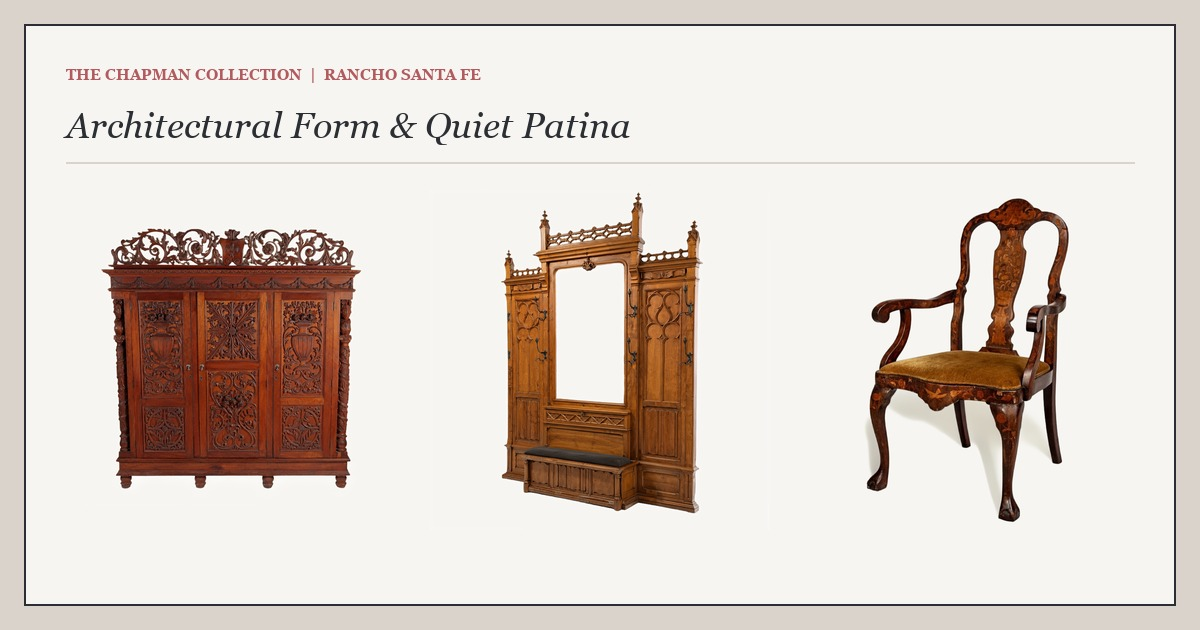
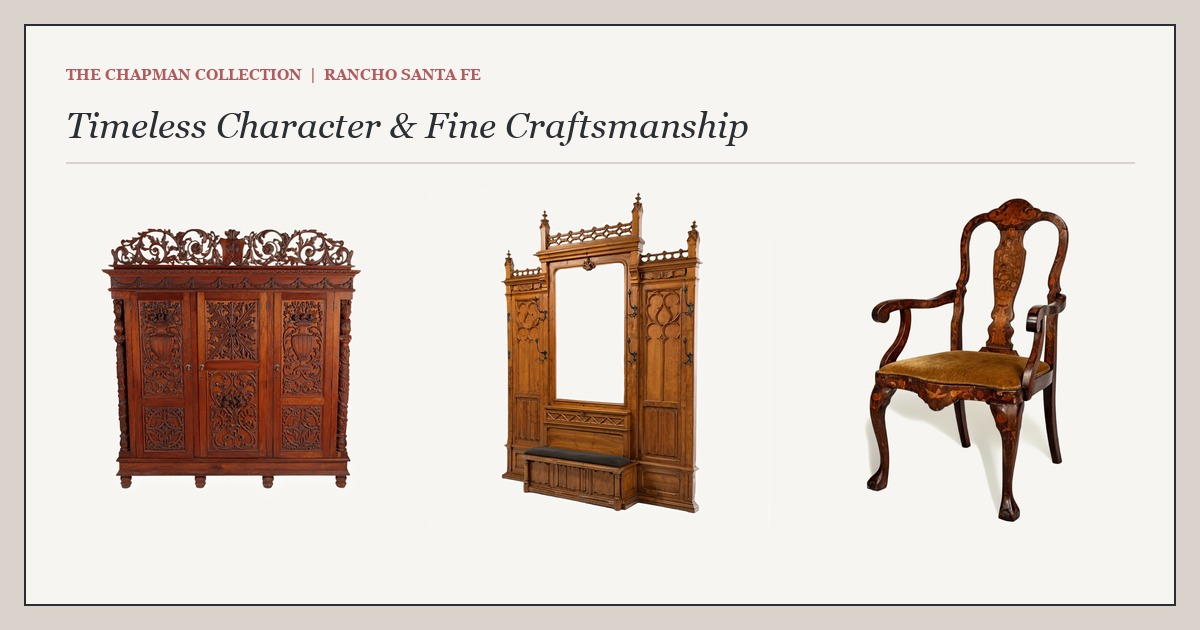
Tighten Scandinavian circular header, invert ghost-to-fill hover buttons, remove redundant upper contact line

Changed region(s): [[0.0617, 0.181, 0.6167, 0.2413]]

diff --git a/drafts-for-pmc-approval/2026-11-04-scandinavian-gustavian-gallery/2026-11-04-Omnisend_Scandinavian_Gustavian_Gallery_Full_Import.html b/drafts-for-pmc-approval/2026-11-04-scandinavian-gustavian-gallery/2026-11-04-Omnisend_Scandinavian_Gustavian_Gallery_Full_Import.html
@@ -6,12 +6,12 @@
 <meta http-equiv="X-UA-Compatible" content="IE=edge">
 <meta name="robots" content="noindex, nofollow">
 <meta property="og:type" content="website">
-<meta property="og:title" content="Architectural Form and Quiet Patina | The Chapman Collection">
-<meta property="og:description" content="Statement European antiques, carved Spanish and English woodwork, 1700s Dutch marquetry, French Empire marble pedestals and luminous Silk Qum carpets on our Scandinavian gallery canvas.">
+<meta property="og:title" content="Timeless Character &amp; Fine Craftsmanship | The Chapman Collection">
+<meta property="og:description" content="A curated selection of statement European antiques, carved Spanish and English woodwork, 1700s Dutch marquetry, French Empire marble pedestals and luminous Silk Qum carpets from our Rancho Santa Fe showroom.">
 <meta property="og:image" content="https://renderwithoutcode.com/drafts-for-pmc-approval/2026-11-04-scandinavian-gustavian-gallery/cuts/tcc-nov04-og-banner.jpg">
 <meta property="og:image:width" content="1200">
 <meta property="og:image:height" content="630">
-<title>Architectural Form and Quiet Patina - The Chapman Collection</title>
+<title>Timeless Character &amp; Fine Craftsmanship - The Chapman Collection</title>
 <style type="text/css">
   body, table, td, p, a, h1, h2, h3, h4 {
     -webkit-text-size-adjust: 100%;
@@ -29,6 +29,18 @@
     outline: none;
     text-decoration: none;
     max-width: 100%;
+  }
+  .tcc-btn {
+    background-color: #F7F5F2 !important;
+    color: #2B2F33 !important;
+    transition: background-color 0.2s ease, color 0.2s ease;
+  }
+  .tcc-btn:hover {
+    background-color: #2B2F33 !important;
+    color: #F7F5F2 !important;
+  }
+  .tcc-btn-td:hover {
+    background-color: #2B2F33 !important;
   }
   @media only screen and (max-width: 520px) {
     .tcc-outer-frame {
@@ -54,7 +66,7 @@
 <body style="margin:0;padding:0;background-color:#D9D3CC;">
 <!-- Hidden Preheader -->
 <div style="display:none;font-size:1px;color:#D9D3CC;line-height:1px;max-height:0px;max-width:0px;opacity:0;overflow:hidden;">
-  Monumental English and Spanish woodwork, 1700s Dutch floral marquetry, French Empire green marble pedestals and luminous Silk Qum carpets.
+  A curated selection from our Rancho Santa Fe showroom: monumental English and Spanish woodwork, 1700s Dutch floral marquetry, French Empire marble pedestals and luminous Silk Qum carpets.
 </div>
 
 <!-- Outer Surround in #D9D3CC (Gustavian Putty) -->
@@ -108,27 +120,21 @@
         </tr>
 
         <!-- ================================================================== -->
-        <!-- 3. ELOQUENCE EDITORIAL TITLE CARD & OPENING NOTE                   -->
+        <!-- 3. ELOQUENCE EDITORIAL TITLE CARD (TIGHTENED - NO PARAGRAPH)       -->
         <!-- ================================================================== -->
         <tr>
-          <td class="tcc-pad" align="center" style="padding:18px 8% 24px 8%;background-color:#F7F5F2;text-align:center;">
+          <td class="tcc-pad" align="center" style="padding:14px 8% 18px 8%;background-color:#F7F5F2;text-align:center;">
             <p style="margin:0 0 8px 0;font-family:'Garamond','Georgia',serif;font-size:11px;letter-spacing:2.4px;text-transform:uppercase;color:#B35A5E;font-weight:bold;text-align:center;">
-              The Studio Silhouette Edition
+              Timeless Character &amp; Fine Craftsmanship
             </p>
-            <h2 style="margin:0 0 14px 0;font-family:'Garamond','Georgia',serif;font-size:30px;font-weight:normal;font-style:italic;color:#2B2F33;line-height:1.25;text-align:center;">
-              Architectural form and quiet patina
+            <h2 style="margin:0 0 14px 0;font-family:'Garamond','Georgia',serif;font-size:26px;font-weight:normal;font-style:italic;color:#2B2F33;line-height:1.28;text-align:center;">
+              A curated selection from our Rancho Santa Fe showroom
             </h2>
-            <table role="presentation" cellspacing="0" cellpadding="0" border="0" width="48" align="center" style="width:48px;margin:0 auto 18px auto;">
+            <table role="presentation" cellspacing="0" cellpadding="0" border="0" width="48" align="center" style="width:48px;margin:0 auto;">
               <tr>
                 <td height="2" style="height:2px;line-height:2px;font-size:2px;background-color:#B35A5E;">&nbsp;</td>
               </tr>
             </table>
-            <p style="margin:0 0 14px 0;font-family:'Garamond','Georgia',serif;font-size:17px;line-height:1.7;color:#2B2F33;text-align:center;">
-              When a remarkable antique is placed against a quiet, neutral gallery wall, every hand carved relief, warm walnut grain and gilt bronze mount comes into clear focus.
-            </p>
-            <p style="margin:0;font-family:'Garamond','Georgia',serif;font-size:17px;line-height:1.7;color:#2B2F33;text-align:center;">
-              This week we have photographed a curated selection of statement European furniture, 18th century Dutch marquetry, French Empire pedestals, luminous Persian silk carpets, fine porcelain and modern art against our new Scandinavian alabaster backdrop so you can admire their silhouette and craftsmanship in detail.
-            </p>
           </td>
         </tr>
 
@@ -158,8 +164,8 @@
                   </p>
                   <table role="presentation" cellspacing="0" cellpadding="0" border="0" align="center" style="margin:0 auto;">
                     <tr>
-                      <td bgcolor="#2B2F33" align="center" style="background-color:#2B2F33;border:1px solid #2B2F33;text-align:center;">
-                        <a href="https://thechapmancollection.com/?s=Gothic+Hallstand&amp;post_type=product" target="_blank" style="background-color:#2B2F33;color:#F7F5F2;text-decoration:none;font-family:'Garamond','Georgia',serif;font-size:12px;letter-spacing:1.8px;text-transform:uppercase;padding:10px 26px;display:inline-block;">Select this Piece</a>
+                      <td class="tcc-btn-td" bgcolor="#F7F5F2" align="center" style="background-color:#F7F5F2;border:1px solid #2B2F33;text-align:center;">
+                        <a class="tcc-btn" href="https://thechapmancollection.com/?s=Gothic+Hallstand&amp;post_type=product" target="_blank" style="background-color:#F7F5F2;color:#2B2F33;text-decoration:none;font-family:'Garamond','Georgia',serif;font-size:12px;letter-spacing:1.8px;text-transform:uppercase;padding:10px 26px;display:inline-block;">Select this Piece</a>
                       </td>
                     </tr>
                   </table>
@@ -200,8 +206,8 @@
                   </p>
                   <table role="presentation" cellspacing="0" cellpadding="0" border="0" align="center" style="margin:0 auto;">
                     <tr>
-                      <td bgcolor="#2B2F33" align="center" style="background-color:#2B2F33;border:1px solid #2B2F33;text-align:center;">
-                        <a href="https://thechapmancollection.com/?s=Spanish+Cabinet+Knights&amp;post_type=product" target="_blank" style="background-color:#2B2F33;color:#F7F5F2;text-decoration:none;font-family:'Garamond','Georgia',serif;font-size:10.5px;letter-spacing:1.6px;text-transform:uppercase;padding:8px 18px;display:inline-block;">Select this Piece</a>
+                      <td class="tcc-btn-td" bgcolor="#F7F5F2" align="center" style="background-color:#F7F5F2;border:1px solid #2B2F33;text-align:center;">
+                        <a class="tcc-btn" href="https://thechapmancollection.com/?s=Spanish+Cabinet+Knights&amp;post_type=product" target="_blank" style="background-color:#F7F5F2;color:#2B2F33;text-decoration:none;font-family:'Garamond','Georgia',serif;font-size:10.5px;letter-spacing:1.6px;text-transform:uppercase;padding:8px 18px;display:inline-block;">Select this Piece</a>
                       </td>
                     </tr>
                   </table>
@@ -225,8 +231,8 @@
                   </p>
                   <table role="presentation" cellspacing="0" cellpadding="0" border="0" align="center" style="margin:0 auto;">
                     <tr>
-                      <td bgcolor="#2B2F33" align="center" style="background-color:#2B2F33;border:1px solid #2B2F33;text-align:center;">
-                        <a href="https://thechapmancollection.com/?s=Boulle+Marquetry+Credenza&amp;post_type=product" target="_blank" style="background-color:#2B2F33;color:#F7F5F2;text-decoration:none;font-family:'Garamond','Georgia',serif;font-size:10.5px;letter-spacing:1.6px;text-transform:uppercase;padding:8px 18px;display:inline-block;">Select this Piece</a>
+                      <td class="tcc-btn-td" bgcolor="#F7F5F2" align="center" style="background-color:#F7F5F2;border:1px solid #2B2F33;text-align:center;">
+                        <a class="tcc-btn" href="https://thechapmancollection.com/?s=Boulle+Marquetry+Credenza&amp;post_type=product" target="_blank" style="background-color:#F7F5F2;color:#2B2F33;text-decoration:none;font-family:'Garamond','Georgia',serif;font-size:10.5px;letter-spacing:1.6px;text-transform:uppercase;padding:8px 18px;display:inline-block;">Select this Piece</a>
                       </td>
                     </tr>
                   </table>
@@ -253,8 +259,8 @@
                   </p>
                   <table role="presentation" cellspacing="0" cellpadding="0" border="0" align="center" style="margin:0 auto;">
                     <tr>
-                      <td bgcolor="#2B2F33" align="center" style="background-color:#2B2F33;border:1px solid #2B2F33;text-align:center;">
-                        <a href="https://thechapmancollection.com/product/antique-dutch-floral-marquetry-armchair-circa-early-to-mid-1700s/" target="_blank" style="background-color:#2B2F33;color:#F7F5F2;text-decoration:none;font-family:'Garamond','Georgia',serif;font-size:10.5px;letter-spacing:1.6px;text-transform:uppercase;padding:8px 18px;display:inline-block;">Select this Piece</a>
+                      <td class="tcc-btn-td" bgcolor="#F7F5F2" align="center" style="background-color:#F7F5F2;border:1px solid #2B2F33;text-align:center;">
+                        <a class="tcc-btn" href="https://thechapmancollection.com/product/antique-dutch-floral-marquetry-armchair-circa-early-to-mid-1700s/" target="_blank" style="background-color:#F7F5F2;color:#2B2F33;text-decoration:none;font-family:'Garamond','Georgia',serif;font-size:10.5px;letter-spacing:1.6px;text-transform:uppercase;padding:8px 18px;display:inline-block;">Select this Piece</a>
                       </td>
                     </tr>
                   </table>
@@ -278,8 +284,8 @@
                   </p>
                   <table role="presentation" cellspacing="0" cellpadding="0" border="0" align="center" style="margin:0 auto;">
                     <tr>
-                      <td bgcolor="#2B2F33" align="center" style="background-color:#2B2F33;border:1px solid #2B2F33;text-align:center;">
-                        <a href="https://thechapmancollection.com/product/pair-of-french-empire-style-marble-pedestals/" target="_blank" style="background-color:#2B2F33;color:#F7F5F2;text-decoration:none;font-family:'Garamond','Georgia',serif;font-size:10.5px;letter-spacing:1.6px;text-transform:uppercase;padding:8px 18px;display:inline-block;">Select this Piece</a>
+                      <td class="tcc-btn-td" bgcolor="#F7F5F2" align="center" style="background-color:#F7F5F2;border:1px solid #2B2F33;text-align:center;">
+                        <a class="tcc-btn" href="https://thechapmancollection.com/product/pair-of-french-empire-style-marble-pedestals/" target="_blank" style="background-color:#F7F5F2;color:#2B2F33;text-decoration:none;font-family:'Garamond','Georgia',serif;font-size:10.5px;letter-spacing:1.6px;text-transform:uppercase;padding:8px 18px;display:inline-block;">Select this Piece</a>
                       </td>
                     </tr>
                   </table>
@@ -320,8 +326,8 @@
                   </p>
                   <table role="presentation" cellspacing="0" cellpadding="0" border="0" align="center" style="margin:0 auto;">
                     <tr>
-                      <td bgcolor="#2B2F33" align="center" style="background-color:#2B2F33;border:1px solid #2B2F33;text-align:center;">
-                        <a href="https://thechapmancollection.com/product/new-persian-hand-finished-silk-qum-carpet-warm-red-ivory-soft-neutrals/" target="_blank" style="background-color:#2B2F33;color:#F7F5F2;text-decoration:none;font-family:'Garamond','Georgia',serif;font-size:10.5px;letter-spacing:1.6px;text-transform:uppercase;padding:8px 18px;display:inline-block;">Select this Piece</a>
+                      <td class="tcc-btn-td" bgcolor="#F7F5F2" align="center" style="background-color:#F7F5F2;border:1px solid #2B2F33;text-align:center;">
+                        <a class="tcc-btn" href="https://thechapmancollection.com/product/new-persian-hand-finished-silk-qum-carpet-warm-red-ivory-soft-neutrals/" target="_blank" style="background-color:#F7F5F2;color:#2B2F33;text-decoration:none;font-family:'Garamond','Georgia',serif;font-size:10.5px;letter-spacing:1.6px;text-transform:uppercase;padding:8px 18px;display:inline-block;">Select this Piece</a>
                       </td>
                     </tr>
                   </table>
@@ -345,8 +351,8 @@
                   </p>
                   <table role="presentation" cellspacing="0" cellpadding="0" border="0" align="center" style="margin:0 auto;">
                     <tr>
-                      <td bgcolor="#2B2F33" align="center" style="background-color:#2B2F33;border:1px solid #2B2F33;text-align:center;">
-                        <a href="https://thechapmancollection.com/product/new-persian-hand-finished-silk-qum-runner-midnight-blue-ivory-medallions/" target="_blank" style="background-color:#2B2F33;color:#F7F5F2;text-decoration:none;font-family:'Garamond','Georgia',serif;font-size:10.5px;letter-spacing:1.6px;text-transform:uppercase;padding:8px 18px;display:inline-block;">Select this Piece</a>
+                      <td class="tcc-btn-td" bgcolor="#F7F5F2" align="center" style="background-color:#F7F5F2;border:1px solid #2B2F33;text-align:center;">
+                        <a class="tcc-btn" href="https://thechapmancollection.com/product/new-persian-hand-finished-silk-qum-runner-midnight-blue-ivory-medallions/" target="_blank" style="background-color:#F7F5F2;color:#2B2F33;text-decoration:none;font-family:'Garamond','Georgia',serif;font-size:10.5px;letter-spacing:1.6px;text-transform:uppercase;padding:8px 18px;display:inline-block;">Select this Piece</a>
                       </td>
                     </tr>
                   </table>
@@ -373,8 +379,8 @@
                   </p>
                   <table role="presentation" cellspacing="0" cellpadding="0" border="0" align="center" style="margin:0 auto;">
                     <tr>
-                      <td bgcolor="#2B2F33" align="center" style="background-color:#2B2F33;border:1px solid #2B2F33;text-align:center;">
-                        <a href="https://thechapmancollection.com/product/18-pc-porcelain-limoges-style-tea-service-cobalt-blue-and-gold/" target="_blank" style="background-color:#2B2F33;color:#F7F5F2;text-decoration:none;font-family:'Garamond','Georgia',serif;font-size:10.5px;letter-spacing:1.6px;text-transform:uppercase;padding:8px 18px;display:inline-block;">Select this Piece</a>
+                      <td class="tcc-btn-td" bgcolor="#F7F5F2" align="center" style="background-color:#F7F5F2;border:1px solid #2B2F33;text-align:center;">
+                        <a class="tcc-btn" href="https://thechapmancollection.com/product/18-pc-porcelain-limoges-style-tea-service-cobalt-blue-and-gold/" target="_blank" style="background-color:#F7F5F2;color:#2B2F33;text-decoration:none;font-family:'Garamond','Georgia',serif;font-size:10.5px;letter-spacing:1.6px;text-transform:uppercase;padding:8px 18px;display:inline-block;">Select this Piece</a>
                       </td>
                     </tr>
                   </table>
@@ -398,8 +404,8 @@
                   </p>
                   <table role="presentation" cellspacing="0" cellpadding="0" border="0" align="center" style="margin:0 auto;">
                     <tr>
-                      <td bgcolor="#2B2F33" align="center" style="background-color:#2B2F33;border:1px solid #2B2F33;text-align:center;">
-                        <a href="https://thechapmancollection.com/product/joan-miro-the-gold-of-the-azure-original-color-plate-in-custom-frame/" target="_blank" style="background-color:#2B2F33;color:#F7F5F2;text-decoration:none;font-family:'Garamond','Georgia',serif;font-size:10.5px;letter-spacing:1.6px;text-transform:uppercase;padding:8px 18px;display:inline-block;">Select this Piece</a>
+                      <td class="tcc-btn-td" bgcolor="#F7F5F2" align="center" style="background-color:#F7F5F2;border:1px solid #2B2F33;text-align:center;">
+                        <a class="tcc-btn" href="https://thechapmancollection.com/product/joan-miro-the-gold-of-the-azure-original-color-plate-in-custom-frame/" target="_blank" style="background-color:#F7F5F2;color:#2B2F33;text-decoration:none;font-family:'Garamond','Georgia',serif;font-size:10.5px;letter-spacing:1.6px;text-transform:uppercase;padding:8px 18px;display:inline-block;">Select this Piece</a>
                       </td>
                     </tr>
                   </table>
@@ -420,18 +426,13 @@
                   <p style="margin:0 0 6px 0;font-family:'Garamond','Georgia',serif;font-size:11px;letter-spacing:2px;text-transform:uppercase;color:#B35A5E;font-weight:bold;">
                     Visit Our Rancho Santa Fe Gallery
                   </p>
-                  <p style="margin:0 0 14px 0;font-family:'Garamond','Georgia',serif;font-size:16.5px;line-height:1.65;color:#2B2F33;">
-                    We are located in the heart of the Rancho Santa Fe Village at 6014 La Granada and are open seven days a week. Stop in to experience these pieces in person, or reply directly for private home trials and white glove delivery details.
-                  </p>
-                  <p style="margin:0 0 16px 0;font-family:'Garamond','Georgia',serif;font-size:17px;line-height:1.5;color:#2B2F33;">
-                    <a href="tel:+18583492638" style="color:#2B2F33;font-weight:bold;text-decoration:none;white-space:nowrap;">(858) 349-2638</a>
-                    <span style="color:#8A8F97;padding:0 10px;">|</span>
-                    <a href="mailto:melissa@thechapmancollection.com?subject=Inquiry%20from%20The%20Chapman%20Collection%20Gallery%20Circular" style="color:#B35A5E;font-weight:bold;text-decoration:underline;white-space:nowrap;">melissa@thechapmancollection.com</a>
+                  <p style="margin:0 0 18px 0;font-family:'Garamond','Georgia',serif;font-size:16.5px;line-height:1.65;color:#2B2F33;">
+                    Open seven days a week in the heart of the Rancho Santa Fe Village. Stop in to experience these pieces in person, or reply directly for private home trials and white glove delivery details.
                   </p>
                   <table role="presentation" cellspacing="0" cellpadding="0" border="0" align="center" style="margin:0 auto;">
                     <tr>
-                      <td bgcolor="#2B2F33" align="center" style="background-color:#2B2F33;border:1px solid #2B2F33;text-align:center;">
-                        <a href="https://thechapmancollection.com/" target="_blank" style="background-color:#2B2F33;color:#F7F5F2;text-decoration:none;font-family:'Garamond','Georgia',serif;font-size:13px;letter-spacing:2px;text-transform:uppercase;padding:12px 30px;display:inline-block;">Explore the Full Collection</a>
+                      <td class="tcc-btn-td" bgcolor="#F7F5F2" align="center" style="background-color:#F7F5F2;border:1px solid #2B2F33;text-align:center;">
+                        <a class="tcc-btn" href="https://thechapmancollection.com/" target="_blank" style="background-color:#F7F5F2;color:#2B2F33;text-decoration:none;font-family:'Garamond','Georgia',serif;font-size:13px;letter-spacing:2px;text-transform:uppercase;padding:12px 30px;display:inline-block;">Explore the Full Collection</a>
                       </td>
                     </tr>
                   </table>

diff --git a/drafts-for-pmc-approval/2026-11-04-scandinavian-gustavian-gallery/index.html b/drafts-for-pmc-approval/2026-11-04-scandinavian-gustavian-gallery/index.html
@@ -6,12 +6,12 @@
 <meta http-equiv="X-UA-Compatible" content="IE=edge">
 <meta name="robots" content="noindex, nofollow">
 <meta property="og:type" content="website">
-<meta property="og:title" content="Architectural Form and Quiet Patina | The Chapman Collection">
-<meta property="og:description" content="Statement European antiques, carved Spanish and English woodwork, 1700s Dutch marquetry, French Empire marble pedestals and luminous Silk Qum carpets on our Scandinavian gallery canvas.">
+<meta property="og:title" content="Timeless Character &amp; Fine Craftsmanship | The Chapman Collection">
+<meta property="og:description" content="A curated selection of statement European antiques, carved Spanish and English woodwork, 1700s Dutch marquetry, French Empire marble pedestals and luminous Silk Qum carpets from our Rancho Santa Fe showroom.">
 <meta property="og:image" content="https://renderwithoutcode.com/drafts-for-pmc-approval/2026-11-04-scandinavian-gustavian-gallery/cuts/tcc-nov04-og-banner.jpg">
 <meta property="og:image:width" content="1200">
 <meta property="og:image:height" content="630">
-<title>Architectural Form and Quiet Patina - The Chapman Collection</title>
+<title>Timeless Character &amp; Fine Craftsmanship - The Chapman Collection</title>
 <style type="text/css">
   body, table, td, p, a, h1, h2, h3, h4 {
     -webkit-text-size-adjust: 100%;
@@ -29,6 +29,18 @@
     outline: none;
     text-decoration: none;
     max-width: 100%;
+  }
+  .tcc-btn {
+    background-color: #F7F5F2 !important;
+    color: #2B2F33 !important;
+    transition: background-color 0.2s ease, color 0.2s ease;
+  }
+  .tcc-btn:hover {
+    background-color: #2B2F33 !important;
+    color: #F7F5F2 !important;
+  }
+  .tcc-btn-td:hover {
+    background-color: #2B2F33 !important;
   }
   @media only screen and (max-width: 520px) {
     .tcc-outer-frame {
@@ -54,7 +66,7 @@
 <body style="margin:0;padding:0;background-color:#D9D3CC;">
 <!-- Hidden Preheader -->
 <div style="display:none;font-size:1px;color:#D9D3CC;line-height:1px;max-height:0px;max-width:0px;opacity:0;overflow:hidden;">
-  Monumental English and Spanish woodwork, 1700s Dutch floral marquetry, French Empire green marble pedestals and luminous Silk Qum carpets.
+  A curated selection from our Rancho Santa Fe showroom: monumental English and Spanish woodwork, 1700s Dutch floral marquetry, French Empire marble pedestals and luminous Silk Qum carpets.
 </div>
 
 <!-- Outer Surround in #D9D3CC (Gustavian Putty) -->
@@ -108,27 +120,21 @@
         </tr>
 
         <!-- ================================================================== -->
-        <!-- 3. ELOQUENCE EDITORIAL TITLE CARD & OPENING NOTE                   -->
+        <!-- 3. ELOQUENCE EDITORIAL TITLE CARD (TIGHTENED - NO PARAGRAPH)       -->
         <!-- ================================================================== -->
         <tr>
-          <td class="tcc-pad" align="center" style="padding:18px 8% 24px 8%;background-color:#F7F5F2;text-align:center;">
+          <td class="tcc-pad" align="center" style="padding:14px 8% 18px 8%;background-color:#F7F5F2;text-align:center;">
             <p style="margin:0 0 8px 0;font-family:'Garamond','Georgia',serif;font-size:11px;letter-spacing:2.4px;text-transform:uppercase;color:#B35A5E;font-weight:bold;text-align:center;">
-              The Studio Silhouette Edition
+              Timeless Character &amp; Fine Craftsmanship
             </p>
-            <h2 style="margin:0 0 14px 0;font-family:'Garamond','Georgia',serif;font-size:30px;font-weight:normal;font-style:italic;color:#2B2F33;line-height:1.25;text-align:center;">
-              Architectural form and quiet patina
+            <h2 style="margin:0 0 14px 0;font-family:'Garamond','Georgia',serif;font-size:26px;font-weight:normal;font-style:italic;color:#2B2F33;line-height:1.28;text-align:center;">
+              A curated selection from our Rancho Santa Fe showroom
             </h2>
-            <table role="presentation" cellspacing="0" cellpadding="0" border="0" width="48" align="center" style="width:48px;margin:0 auto 18px auto;">
+            <table role="presentation" cellspacing="0" cellpadding="0" border="0" width="48" align="center" style="width:48px;margin:0 auto;">
               <tr>
                 <td height="2" style="height:2px;line-height:2px;font-size:2px;background-color:#B35A5E;">&nbsp;</td>
               </tr>
             </table>
-            <p style="margin:0 0 14px 0;font-family:'Garamond','Georgia',serif;font-size:17px;line-height:1.7;color:#2B2F33;text-align:center;">
-              When a remarkable antique is placed against a quiet, neutral gallery wall, every hand carved relief, warm walnut grain and gilt bronze mount comes into clear focus.
-            </p>
-            <p style="margin:0;font-family:'Garamond','Georgia',serif;font-size:17px;line-height:1.7;color:#2B2F33;text-align:center;">
-              This week we have photographed a curated selection of statement European furniture, 18th century Dutch marquetry, French Empire pedestals, luminous Persian silk carpets, fine porcelain and modern art against our new Scandinavian alabaster backdrop so you can admire their silhouette and craftsmanship in detail.
-            </p>
           </td>
         </tr>
 
@@ -158,8 +164,8 @@
                   </p>
                   <table role="presentation" cellspacing="0" cellpadding="0" border="0" align="center" style="margin:0 auto;">
                     <tr>
-                      <td bgcolor="#2B2F33" align="center" style="background-color:#2B2F33;border:1px solid #2B2F33;text-align:center;">
-                        <a href="https://thechapmancollection.com/?s=Gothic+Hallstand&amp;post_type=product" target="_blank" style="background-color:#2B2F33;color:#F7F5F2;text-decoration:none;font-family:'Garamond','Georgia',serif;font-size:12px;letter-spacing:1.8px;text-transform:uppercase;padding:10px 26px;display:inline-block;">Select this Piece</a>
+                      <td class="tcc-btn-td" bgcolor="#F7F5F2" align="center" style="background-color:#F7F5F2;border:1px solid #2B2F33;text-align:center;">
+                        <a class="tcc-btn" href="https://thechapmancollection.com/?s=Gothic+Hallstand&amp;post_type=product" target="_blank" style="background-color:#F7F5F2;color:#2B2F33;text-decoration:none;font-family:'Garamond','Georgia',serif;font-size:12px;letter-spacing:1.8px;text-transform:uppercase;padding:10px 26px;display:inline-block;">Select this Piece</a>
                       </td>
                     </tr>
                   </table>
@@ -200,8 +206,8 @@
                   </p>
                   <table role="presentation" cellspacing="0" cellpadding="0" border="0" align="center" style="margin:0 auto;">
                     <tr>
-                      <td bgcolor="#2B2F33" align="center" style="background-color:#2B2F33;border:1px solid #2B2F33;text-align:center;">
-                        <a href="https://thechapmancollection.com/?s=Spanish+Cabinet+Knights&amp;post_type=product" target="_blank" style="background-color:#2B2F33;color:#F7F5F2;text-decoration:none;font-family:'Garamond','Georgia',serif;font-size:10.5px;letter-spacing:1.6px;text-transform:uppercase;padding:8px 18px;display:inline-block;">Select this Piece</a>
+                      <td class="tcc-btn-td" bgcolor="#F7F5F2" align="center" style="background-color:#F7F5F2;border:1px solid #2B2F33;text-align:center;">
+                        <a class="tcc-btn" href="https://thechapmancollection.com/?s=Spanish+Cabinet+Knights&amp;post_type=product" target="_blank" style="background-color:#F7F5F2;color:#2B2F33;text-decoration:none;font-family:'Garamond','Georgia',serif;font-size:10.5px;letter-spacing:1.6px;text-transform:uppercase;padding:8px 18px;display:inline-block;">Select this Piece</a>
                       </td>
                     </tr>
                   </table>
@@ -225,8 +231,8 @@
                   </p>
                   <table role="presentation" cellspacing="0" cellpadding="0" border="0" align="center" style="margin:0 auto;">
                     <tr>
-                      <td bgcolor="#2B2F33" align="center" style="background-color:#2B2F33;border:1px solid #2B2F33;text-align:center;">
-                        <a href="https://thechapmancollection.com/?s=Boulle+Marquetry+Credenza&amp;post_type=product" target="_blank" style="background-color:#2B2F33;color:#F7F5F2;text-decoration:none;font-family:'Garamond','Georgia',serif;font-size:10.5px;letter-spacing:1.6px;text-transform:uppercase;padding:8px 18px;display:inline-block;">Select this Piece</a>
+                      <td class="tcc-btn-td" bgcolor="#F7F5F2" align="center" style="background-color:#F7F5F2;border:1px solid #2B2F33;text-align:center;">
+                        <a class="tcc-btn" href="https://thechapmancollection.com/?s=Boulle+Marquetry+Credenza&amp;post_type=product" target="_blank" style="background-color:#F7F5F2;color:#2B2F33;text-decoration:none;font-family:'Garamond','Georgia',serif;font-size:10.5px;letter-spacing:1.6px;text-transform:uppercase;padding:8px 18px;display:inline-block;">Select this Piece</a>
                       </td>
                     </tr>
                   </table>
@@ -253,8 +259,8 @@
                   </p>
                   <table role="presentation" cellspacing="0" cellpadding="0" border="0" align="center" style="margin:0 auto;">
                     <tr>
-                      <td bgcolor="#2B2F33" align="center" style="background-color:#2B2F33;border:1px solid #2B2F33;text-align:center;">
-                        <a href="https://thechapmancollection.com/product/antique-dutch-floral-marquetry-armchair-circa-early-to-mid-1700s/" target="_blank" style="background-color:#2B2F33;color:#F7F5F2;text-decoration:none;font-family:'Garamond','Georgia',serif;font-size:10.5px;letter-spacing:1.6px;text-transform:uppercase;padding:8px 18px;display:inline-block;">Select this Piece</a>
+                      <td class="tcc-btn-td" bgcolor="#F7F5F2" align="center" style="background-color:#F7F5F2;border:1px solid #2B2F33;text-align:center;">
+                        <a class="tcc-btn" href="https://thechapmancollection.com/product/antique-dutch-floral-marquetry-armchair-circa-early-to-mid-1700s/" target="_blank" style="background-color:#F7F5F2;color:#2B2F33;text-decoration:none;font-family:'Garamond','Georgia',serif;font-size:10.5px;letter-spacing:1.6px;text-transform:uppercase;padding:8px 18px;display:inline-block;">Select this Piece</a>
                       </td>
                     </tr>
                   </table>
@@ -278,8 +284,8 @@
                   </p>
                   <table role="presentation" cellspacing="0" cellpadding="0" border="0" align="center" style="margin:0 auto;">
                     <tr>
-                      <td bgcolor="#2B2F33" align="center" style="background-color:#2B2F33;border:1px solid #2B2F33;text-align:center;">
-                        <a href="https://thechapmancollection.com/product/pair-of-french-empire-style-marble-pedestals/" target="_blank" style="background-color:#2B2F33;color:#F7F5F2;text-decoration:none;font-family:'Garamond','Georgia',serif;font-size:10.5px;letter-spacing:1.6px;text-transform:uppercase;padding:8px 18px;display:inline-block;">Select this Piece</a>
+                      <td class="tcc-btn-td" bgcolor="#F7F5F2" align="center" style="background-color:#F7F5F2;border:1px solid #2B2F33;text-align:center;">
+                        <a class="tcc-btn" href="https://thechapmancollection.com/product/pair-of-french-empire-style-marble-pedestals/" target="_blank" style="background-color:#F7F5F2;color:#2B2F33;text-decoration:none;font-family:'Garamond','Georgia',serif;font-size:10.5px;letter-spacing:1.6px;text-transform:uppercase;padding:8px 18px;display:inline-block;">Select this Piece</a>
                       </td>
                     </tr>
                   </table>
@@ -320,8 +326,8 @@
                   </p>
                   <table role="presentation" cellspacing="0" cellpadding="0" border="0" align="center" style="margin:0 auto;">
                     <tr>
-                      <td bgcolor="#2B2F33" align="center" style="background-color:#2B2F33;border:1px solid #2B2F33;text-align:center;">
-                        <a href="https://thechapmancollection.com/product/new-persian-hand-finished-silk-qum-carpet-warm-red-ivory-soft-neutrals/" target="_blank" style="background-color:#2B2F33;color:#F7F5F2;text-decoration:none;font-family:'Garamond','Georgia',serif;font-size:10.5px;letter-spacing:1.6px;text-transform:uppercase;padding:8px 18px;display:inline-block;">Select this Piece</a>
+                      <td class="tcc-btn-td" bgcolor="#F7F5F2" align="center" style="background-color:#F7F5F2;border:1px solid #2B2F33;text-align:center;">
+                        <a class="tcc-btn" href="https://thechapmancollection.com/product/new-persian-hand-finished-silk-qum-carpet-warm-red-ivory-soft-neutrals/" target="_blank" style="background-color:#F7F5F2;color:#2B2F33;text-decoration:none;font-family:'Garamond','Georgia',serif;font-size:10.5px;letter-spacing:1.6px;text-transform:uppercase;padding:8px 18px;display:inline-block;">Select this Piece</a>
                       </td>
                     </tr>
                   </table>
@@ -345,8 +351,8 @@
                   </p>
                   <table role="presentation" cellspacing="0" cellpadding="0" border="0" align="center" style="margin:0 auto;">
                     <tr>
-                      <td bgcolor="#2B2F33" align="center" style="background-color:#2B2F33;border:1px solid #2B2F33;text-align:center;">
-                        <a href="https://thechapmancollection.com/product/new-persian-hand-finished-silk-qum-runner-midnight-blue-ivory-medallions/" target="_blank" style="background-color:#2B2F33;color:#F7F5F2;text-decoration:none;font-family:'Garamond','Georgia',serif;font-size:10.5px;letter-spacing:1.6px;text-transform:uppercase;padding:8px 18px;display:inline-block;">Select this Piece</a>
+                      <td class="tcc-btn-td" bgcolor="#F7F5F2" align="center" style="background-color:#F7F5F2;border:1px solid #2B2F33;text-align:center;">
+                        <a class="tcc-btn" href="https://thechapmancollection.com/product/new-persian-hand-finished-silk-qum-runner-midnight-blue-ivory-medallions/" target="_blank" style="background-color:#F7F5F2;color:#2B2F33;text-decoration:none;font-family:'Garamond','Georgia',serif;font-size:10.5px;letter-spacing:1.6px;text-transform:uppercase;padding:8px 18px;display:inline-block;">Select this Piece</a>
                       </td>
                     </tr>
                   </table>
@@ -373,8 +379,8 @@
                   </p>
                   <table role="presentation" cellspacing="0" cellpadding="0" border="0" align="center" style="margin:0 auto;">
                     <tr>
-                      <td bgcolor="#2B2F33" align="center" style="background-color:#2B2F33;border:1px solid #2B2F33;text-align:center;">
-                        <a href="https://thechapmancollection.com/product/18-pc-porcelain-limoges-style-tea-service-cobalt-blue-and-gold/" target="_blank" style="background-color:#2B2F33;color:#F7F5F2;text-decoration:none;font-family:'Garamond','Georgia',serif;font-size:10.5px;letter-spacing:1.6px;text-transform:uppercase;padding:8px 18px;display:inline-block;">Select this Piece</a>
+                      <td class="tcc-btn-td" bgcolor="#F7F5F2" align="center" style="background-color:#F7F5F2;border:1px solid #2B2F33;text-align:center;">
+                        <a class="tcc-btn" href="https://thechapmancollection.com/product/18-pc-porcelain-limoges-style-tea-service-cobalt-blue-and-gold/" target="_blank" style="background-color:#F7F5F2;color:#2B2F33;text-decoration:none;font-family:'Garamond','Georgia',serif;font-size:10.5px;letter-spacing:1.6px;text-transform:uppercase;padding:8px 18px;display:inline-block;">Select this Piece</a>
                       </td>
                     </tr>
                   </table>
@@ -398,8 +404,8 @@
                   </p>
                   <table role="presentation" cellspacing="0" cellpadding="0" border="0" align="center" style="margin:0 auto;">
                     <tr>
-                      <td bgcolor="#2B2F33" align="center" style="background-color:#2B2F33;border:1px solid #2B2F33;text-align:center;">
-                        <a href="https://thechapmancollection.com/product/joan-miro-the-gold-of-the-azure-original-color-plate-in-custom-frame/" target="_blank" style="background-color:#2B2F33;color:#F7F5F2;text-decoration:none;font-family:'Garamond','Georgia',serif;font-size:10.5px;letter-spacing:1.6px;text-transform:uppercase;padding:8px 18px;display:inline-block;">Select this Piece</a>
+                      <td class="tcc-btn-td" bgcolor="#F7F5F2" align="center" style="background-color:#F7F5F2;border:1px solid #2B2F33;text-align:center;">
+                        <a class="tcc-btn" href="https://thechapmancollection.com/product/joan-miro-the-gold-of-the-azure-original-color-plate-in-custom-frame/" target="_blank" style="background-color:#F7F5F2;color:#2B2F33;text-decoration:none;font-family:'Garamond','Georgia',serif;font-size:10.5px;letter-spacing:1.6px;text-transform:uppercase;padding:8px 18px;display:inline-block;">Select this Piece</a>
                       </td>
                     </tr>
                   </table>
@@ -420,18 +426,13 @@
                   <p style="margin:0 0 6px 0;font-family:'Garamond','Georgia',serif;font-size:11px;letter-spacing:2px;text-transform:uppercase;color:#B35A5E;font-weight:bold;">
                     Visit Our Rancho Santa Fe Gallery
                   </p>
-                  <p style="margin:0 0 14px 0;font-family:'Garamond','Georgia',serif;font-size:16.5px;line-height:1.65;color:#2B2F33;">
-                    We are located in the heart of the Rancho Santa Fe Village at 6014 La Granada and are open seven days a week. Stop in to experience these pieces in person, or reply directly for private home trials and white glove delivery details.
-                  </p>
-                  <p style="margin:0 0 16px 0;font-family:'Garamond','Georgia',serif;font-size:17px;line-height:1.5;color:#2B2F33;">
-                    <a href="tel:+18583492638" style="color:#2B2F33;font-weight:bold;text-decoration:none;white-space:nowrap;">(858) 349-2638</a>
-                    <span style="color:#8A8F97;padding:0 10px;">|</span>
-                    <a href="mailto:melissa@thechapmancollection.com?subject=Inquiry%20from%20The%20Chapman%20Collection%20Gallery%20Circular" style="color:#B35A5E;font-weight:bold;text-decoration:underline;white-space:nowrap;">melissa@thechapmancollection.com</a>
+                  <p style="margin:0 0 18px 0;font-family:'Garamond','Georgia',serif;font-size:16.5px;line-height:1.65;color:#2B2F33;">
+                    Open seven days a week in the heart of the Rancho Santa Fe Village. Stop in to experience these pieces in person, or reply directly for private home trials and white glove delivery details.
                   </p>
                   <table role="presentation" cellspacing="0" cellpadding="0" border="0" align="center" style="margin:0 auto;">
                     <tr>
-                      <td bgcolor="#2B2F33" align="center" style="background-color:#2B2F33;border:1px solid #2B2F33;text-align:center;">
-                        <a href="https://thechapmancollection.com/" target="_blank" style="background-color:#2B2F33;color:#F7F5F2;text-decoration:none;font-family:'Garamond','Georgia',serif;font-size:13px;letter-spacing:2px;text-transform:uppercase;padding:12px 30px;display:inline-block;">Explore the Full Collection</a>
+                      <td class="tcc-btn-td" bgcolor="#F7F5F2" align="center" style="background-color:#F7F5F2;border:1px solid #2B2F33;text-align:center;">
+                        <a class="tcc-btn" href="https://thechapmancollection.com/" target="_blank" style="background-color:#F7F5F2;color:#2B2F33;text-decoration:none;font-family:'Garamond','Georgia',serif;font-size:13px;letter-spacing:2px;text-transform:uppercase;padding:12px 30px;display:inline-block;">Explore the Full Collection</a>
                       </td>
                     </tr>
                   </table>
